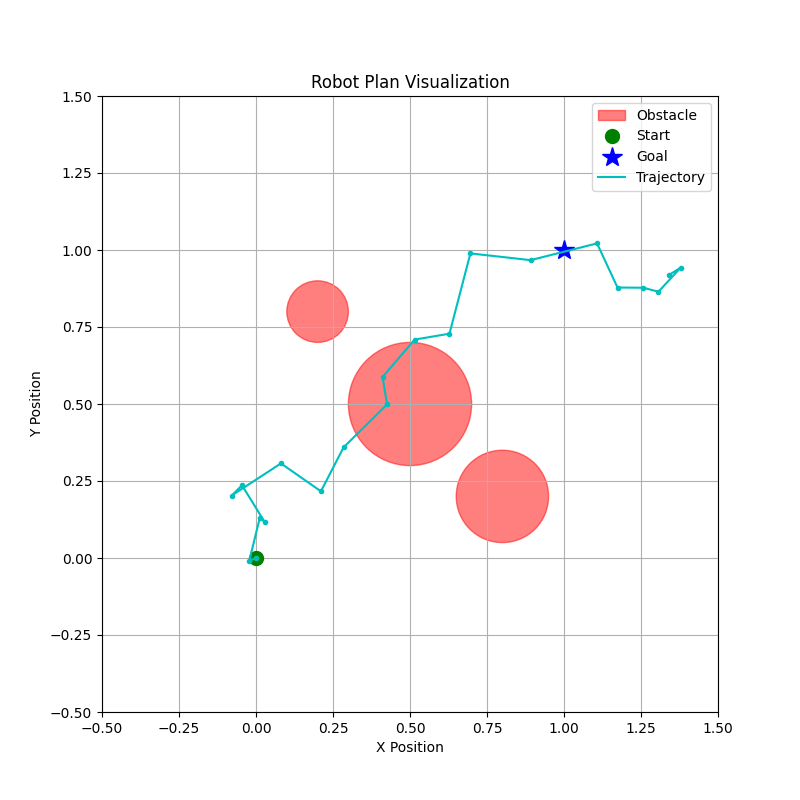
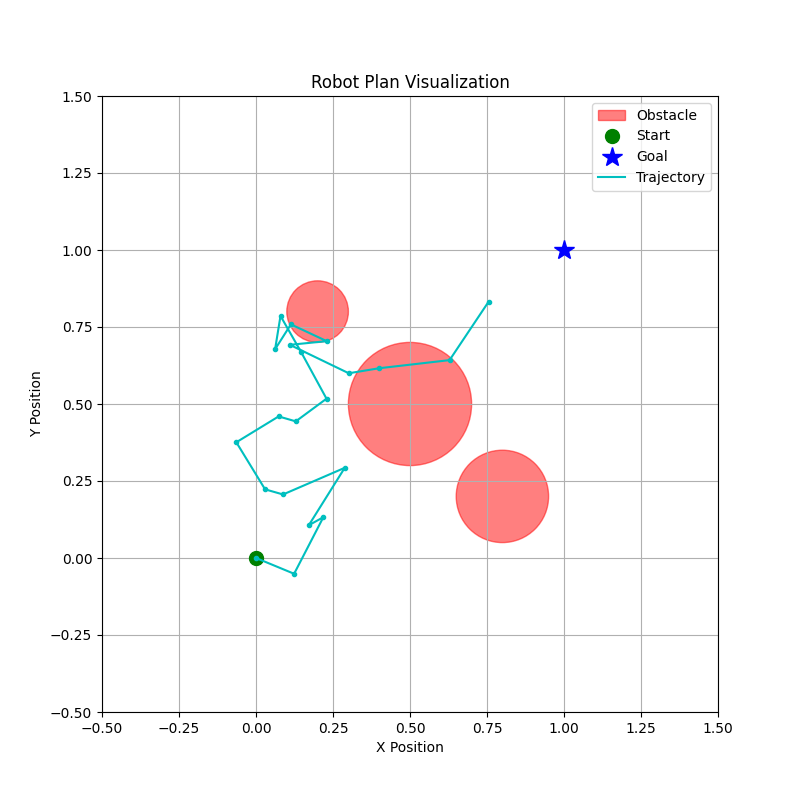
feat: Add safety margin to the motion planner
This commit introduces a new safety-aware component to the motion planner's scoring function. Previously, the planner only penalized collisions, which could result in paths that skim very close to obstacles.

The `DifferentiableDynamicsModel` now includes a `safety_weight` parameter that controls a new penalty term. This term is inversely proportional to the distance from obstacles, creating a "repulsive force" that encourages the planner to maintain a safe distance.

The `safety_weight` can be controlled via the `--safety-weight` command-line argument in `main.py`.

This change results in safer, smoother, and more realistic trajectories, which is a key requirement for real-world robotics applications.

diff --git a/src/planning/dynamics.py b/src/planning/dynamics.py
@@ -6,8 +6,9 @@ class DifferentiableDynamicsModel:
     A differentiable dynamics model for the 2D environment.
     This model predicts the outcome of action plans and scores them.
     """
-    def __init__(self, env: Environment2D):
+    def __init__(self, env: Environment2D, safety_weight: float = 0.1):
         self.env = env
+        self.safety_weight = safety_weight
 
     def rollout_plans(self, start_pos: torch.Tensor, plans: torch.Tensor):
         """
@@ -59,4 +60,39 @@ class DifferentiableDynamicsModel:
         # Penalize plans that have any collision. The large penalty ensures collision avoidance.
         collision_penalty = -1000.0 * torch.any(collisions, dim=1).float()
 
-        return goal_score + collision_penalty
+        # --- Safety Score ---
+        # Penalize proximity to obstacles to encourage safer paths.
+        safety_penalty = torch.tensor(0.0, device=self.env.device)
+        if self.env.obstacle_centers.shape[0] > 0 and self.safety_weight > 0:
+            # Reshape for broadcasting:
+            # flat_trajectories: (num_plans * plan_horizon, 1, 2)
+            # obstacle_centers: (1, num_obstacles, 2)
+            expanded_trajectories = flat_trajectories.unsqueeze(1)
+            expanded_centers = self.env.obstacle_centers.unsqueeze(0)
+
+            # Calculate distance from each point to each obstacle center
+            # dist_to_centers shape: (num_plans * plan_horizon, num_obstacles)
+            dist_to_centers = torch.linalg.norm(expanded_trajectories - expanded_centers, dim=2)
+
+            # Subtract radius to get distance from obstacle surface
+            dist_to_surface = dist_to_centers - self.env.obstacle_radii.unsqueeze(0)
+
+            # Use a clipped inverse distance penalty: 1 / (dist + epsilon)
+            # We clip the distance at a minimum value to avoid huge penalties and division by zero.
+            # The penalty is only applied if the distance is positive and less than a certain threshold.
+            # Let's use a simple inverse square distance for a stronger repulsive force.
+            # We use `torch.relu` to only consider positive distances (i.e., outside the obstacle).
+            safe_dist = torch.relu(dist_to_surface)
+            # Add a small epsilon to avoid division by zero
+            safety_cost = 1.0 / (safe_dist + 1e-6)
+
+            # We sum the costs from all obstacles for each point in the trajectory.
+            # Then, we sum the costs over the entire trajectory for each plan.
+            # Reshape back to (num_plans, plan_horizon, num_obstacles)
+            safety_cost = safety_cost.view(num_plans, plan_horizon, -1)
+            # Sum over obstacles and trajectory horizon
+            total_safety_cost = torch.sum(safety_cost, dim=[1, 2])
+            safety_penalty = -self.safety_weight * total_safety_cost
+
+
+        return goal_score + collision_penalty + safety_penalty

diff --git a/main.py b/main.py
@@ -43,6 +43,8 @@ def main() -> None:
     parser = argparse.ArgumentParser(description="Run the GPU-based 2D planner.")
     parser.add_argument('--device', type=str, default='cuda', choices=['cuda', 'cpu'],
                         help='Device to run the planner on (cuda or cpu).')
+    parser.add_argument('--safety-weight', type=float, default=0.5,
+                        help='Weight for the safety cost in the planner.')
     args = parser.parse_args()
     device = args.device
 
@@ -69,7 +71,7 @@ def main() -> None:
 
     # --- Model and Planner ---
     print("Initializing models...")
-    dynamics_model = DifferentiableDynamicsModel(env)
+    dynamics_model = DifferentiableDynamicsModel(env, safety_weight=args.safety_weight)
 
     # Use different parameters for CPU vs GPU for timely execution
     if device == 'cpu':
